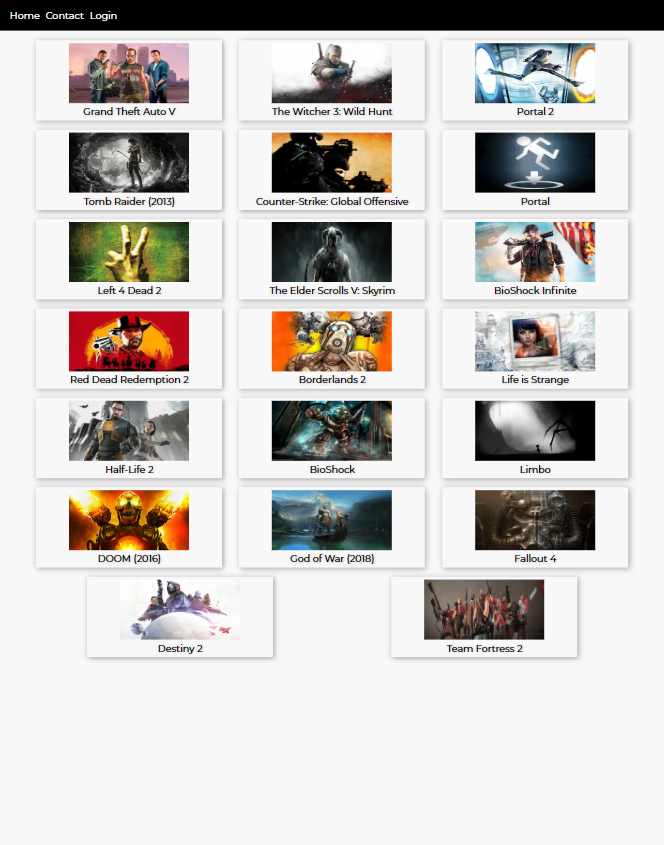
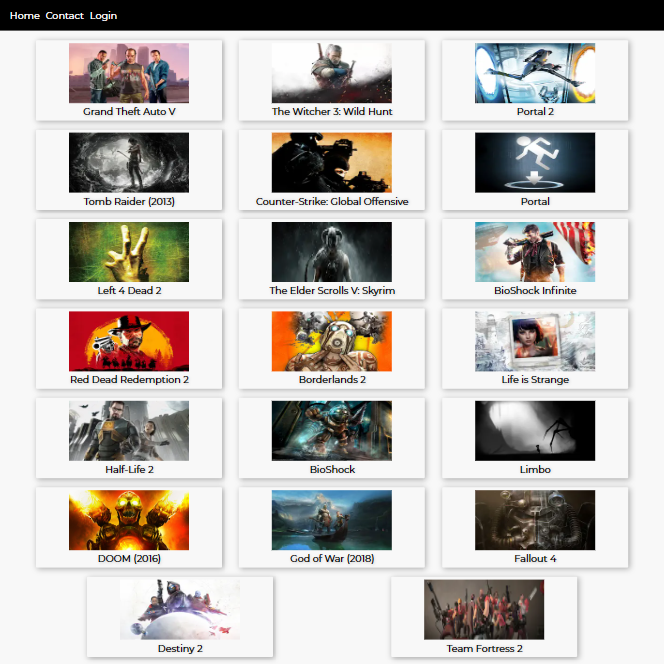
Styling

diff --git a/src/Components/Projects/Projects.jsx b/src/Components/Projects/Projects.jsx
@@ -1,18 +1,25 @@
-import React from 'react'
+import React, {useState} from 'react'
 import { Button, Card, Container } from 'react-bootstrap'
 import {project} from "../../Api/api"
+import ImageModal from '../Common/Modal';
 
 console.log(project);
 
 function Projects() {
+  const [selectedImage, setSelectedImage] = useState('');
+
+  const handleImageClick = (src) => {
+    setSelectedImage(src);
+  };
+
   return (
-    <div>
+    <div className='projects'>
       <h1>My projects</h1>
-      <Container className="d-flex flex-col gap-2">
+      <Container className="d-flex flex-column gap-2 justify-content-center">
       {project.map((post) => {
         return (
-        <Card key={post.title} className='d-flex flex-row gap-2'>
-          <Card.Img className="project-image" variant="left" src={post.src}/>
+        <Card key={post.title} className='d-flex flex-column flex-md-row gap-2'>
+          <Card.Img className="project-image" variant="left" src={post.src} onClick={() => handleImageClick(post.src)}/>
           <div>
             <Card.Title className="project-title">{post.title}</Card.Title>
             <Card.Text>{post.description}</Card.Text>
@@ -25,21 +32,21 @@ function Projects() {
               </ul>
             </div>
           </div>
-          <div className="d-flex flex-col justify-content-end buttons">
-          {post?.sitelink && (<Button href={post.sitelink}>
+          <div className="d-flex flex-row flex-md-column gap-2 buttons justify-content-md-end">
+          {post?.sitelink && (<Button className="site" href={post.sitelink}>
               Site
             </Button>)}
-            {post?.gitlink && (<Button href={post.gitlink}>
+            {post?.gitlink && (<Button className="github" href={post.gitlink}>
               Github
             </Button>)}
-            {post?.discord && (<Button href={post.discord}>
+            {post?.discord && (<Button className="discord" href={post.discord}>
               Discord
             </Button>)}
           </div>
           
         </Card>);
       })}
-      
+       <ImageModal show={!!selectedImage} onHide={() => setSelectedImage('')} src={selectedImage} />
       </Container>
     </div>
   )

diff --git a/src/Components/Home/Home.jsx b/src/Components/Home/Home.jsx
@@ -1,8 +1,11 @@
 import React from 'react'
+import { Button } from 'react-bootstrap'
 
 function Home() {
   return (
-    <div>
+    <>
+    <div className='d-flex flex-column flex-md-row justify-content-center'>
+    <div className='home-content flex-1'>
       <h1>Hi there!</h1>
       <p>Welcome to my portfolio! My name is Kurt André Lund, and I'm a 27-year-old programmer based in Sandnes, Norway. My journey into the world of programming began when I decided to take the Noroff Front-end Developer course. Since then, I've developed a strong passion for coding and have expanded my skillset to include back-end development, with a focus on Java.</p>
 
@@ -11,7 +14,15 @@ function Home() {
       <p>As a developer, I'm committed to delivering high-quality work that meets my clients' needs and exceeds their expectations. I believe that good design is as important as good functionality and always strive to create visually appealing and user-friendly websites that are easy to navigate and interact with.</p>
 
       <p>Please take a look at some examples of my work and projects on this portfolio, and feel free to contact me if you have any questions or would like to work together. Thank you for your interest!</p>
+
+    <Button className='cta-git' href='https://github.com/Lundkurt'>My Github</Button>
+
     </div>
+    <div className='flex-1 d-flex justify-content-center align-items-center'>
+      <img className='profile-img' src="./images/profile.jpg" alt="Profile" />
+    </div>
+    </div>
+    </>
   )
 }
 

diff --git a/src/sass/partials/_layout.scss b/src/sass/partials/_layout.scss
@@ -1,13 +1,64 @@
 body {
   background-color: $background-color;
   color: white;
+  height: 100%;
+  display: flex;
+  flex-direction: column;
+}
+header,
+footer {
+  background-color: rgb(70, 70, 70);
+}
+#root {
+  display: flex;
+  flex-direction: column;
+}
+
+.wrapper {
+  margin-top: 20px;
+  padding-bottom: 40px;
+  flex: 1 0 auto;
 }
 
 main {
+  max-width: 1440px;
   width: 90%;
   margin: auto;
 }
 
 p {
   max-width: 600px;
+}
+
+footer {
+  height: 100px;
+  margin-top: 10px;
+  flex-shrink: 0;
+}
+
+.profile-img {
+  height: 400px;
+  width: 400px;
+  border-radius: 50%;
+}
+
+.flex-1 {
+  flex: 1;
+}
+
+.cta-git {
+  max-width: 175px;
+}
+
+.width-80 {
+  max-width: 80%;
+}
+
+.automargin {
+  margin: auto;
+}
+
+.discord-logo {
+  height: 35px;
+  width: auto;
 }

diff --git a/src/Api/api.js b/src/Api/api.js
@@ -16,11 +16,10 @@ export const project = [
     src: "images/jsframework.png",
     description:
       "This project is a Next.js application showcasing a list of games, each linking to their details page showcasing title, image and rating. little focus on design, just kept it very simple",
-    gitlink: "",
-    sitelink:
-      "https://github.com/Noroff-FEU-Assignments/js-frameworks-course-assignment-Lundkurt",
+    gitlink: "https://github.com/Lundkurt/JS-framework-CA",
+    sitelink: "",
     discord: "",
-    tech: ["Next.js", "CSS", "JS", "Strapi", "Yup", "Axios"],
+    tech: ["Next.js", "Strapi", "Yup", "Axios"],
   },
   {
     id: 2,

diff --git a/public/index.html b/public/index.html
@@ -7,7 +7,7 @@
     <meta name="theme-color" content="#000000" />
     <meta
       name="description"
-      content="Web site created using create-react-app"
+      content="Kurt André Lund's Portfolio"
     />
     <link rel="apple-touch-icon" href="%PUBLIC_URL%/logo192.png" />
     <!--
@@ -24,7 +24,7 @@
       work correctly both with client-side routing and a non-root public URL.
       Learn how to configure a non-root public URL by running `npm run build`.
     -->
-    <title>React App</title>
+    <title>Portfolio KA</title>
   </head>
   <body>
     <noscript>You need to enable JavaScript to run this app.</noscript>

diff --git a/src/Components/Common/Modal.jsx b/src/Components/Common/Modal.jsx
@@ -1,0 +1,22 @@
+import React from 'react';
+import { Button, Modal } from 'react-bootstrap';
+
+function ImageModal({ show, onHide, src }) {
+  return (
+    <Modal show={show} onHide={onHide} size="lg" centered>
+      <Modal.Header closeButton>
+        <Modal.Title>Project Image</Modal.Title>
+      </Modal.Header>
+      <Modal.Body>
+        <img src={src} alt="project" style={{ maxWidth: '100%' }} />
+      </Modal.Body>
+      <Modal.Footer>
+        <Button variant="secondary" onClick={onHide}>
+          Close
+        </Button>
+      </Modal.Footer>
+    </Modal>
+  );
+}
+
+export default ImageModal;

diff --git a/src/Components/Contact/Contact.jsx b/src/Components/Contact/Contact.jsx
@@ -2,9 +2,18 @@ import React from 'react'
 
 function Contact() {
   return (
-    <div>
-      Contact Page
+    <>
+      <div>
+        <h1>Contact information</h1>
+
+        <h4>Phone: +47 480 40 772</h4>
+        <h4><a href="mailto:kurtien@live.no">Kurtien@live.no</a></h4>
+        <div>
+          <img className='discord-logo' src="./images/discord-mark-white.svg" alt="discord"/>  <a class="white discord-link" href="https://www.discordapp.com/users/178577276315762688">Cracked#7777</a>
+        </div>
+        
     </div>
+    </>
   )
 }
 

diff --git a/src/sass/partials/_projects.scss b/src/sass/partials/_projects.scss
@@ -1,7 +1,14 @@
+.projects {
+  margin: auto;
+  max-width: 90%;
+}
 .card {
   background-color: rgb(46, 46, 46);
   max-width: 1000px;
   border: solid 1px rgb(107, 107, 107);
+  display: flex;
+  flex-direction: column;
+  gap: 2;
 }
 
 .card-text {
@@ -11,7 +18,12 @@
   height: 300px;
   width: 300px;
   object-fit: cover;
-  border-radius: 3% 0 0 3%;
+  border-radius: 3% 3% 0 0%;
+  margin: auto;
+  cursor: zoom-in;
+  @media (min-width: 744px) {
+    border-radius: 3% 0 0 3%;
+  }
 }
 
 .button {

diff --git a/src/Components/Layout/Layout.jsx b/src/Components/Layout/Layout.jsx
@@ -1,12 +1,16 @@
 import React from 'react'
 import Header from './Header'
+import Footer from './Footer'
 
 function Layout({children}) {
   return (
-    <div>
+    <>
       <Header/>
-      <main>{children}</main>
-    </div>
+      <div className='wrapper'>
+       <div className='width-80 automargin'>{children}</div> 
+      </div>
+      <Footer/>
+    </>
   )
 }
 

diff --git a/src/Components/Layout/Header.jsx b/src/Components/Layout/Header.jsx
@@ -3,7 +3,7 @@ import { Nav } from "react-bootstrap";
 
 function Header() {
   return (
-    <header>
+    <header className="d-flex justify-content-center align-items-center">
       <Nav className="justify-content-center" activeKey="/">
         <Nav.Item>
           <Nav.Link href="/">Home</Nav.Link>

diff --git a/src/sass/style.scss b/src/sass/style.scss
@@ -4,3 +4,4 @@ $background-color: #242424;
 @import "partials/layout";
 @import "partials/header";
 @import "partials/projects";
+@import "partials/home";

diff --git a/src/Components/Layout/Footer.jsx b/src/Components/Layout/Footer.jsx
@@ -1,0 +1,11 @@
+import React from 'react'
+
+function Footer() {
+  return (
+    <footer>
+      
+    </footer>
+  )
+}
+
+export default Footer
